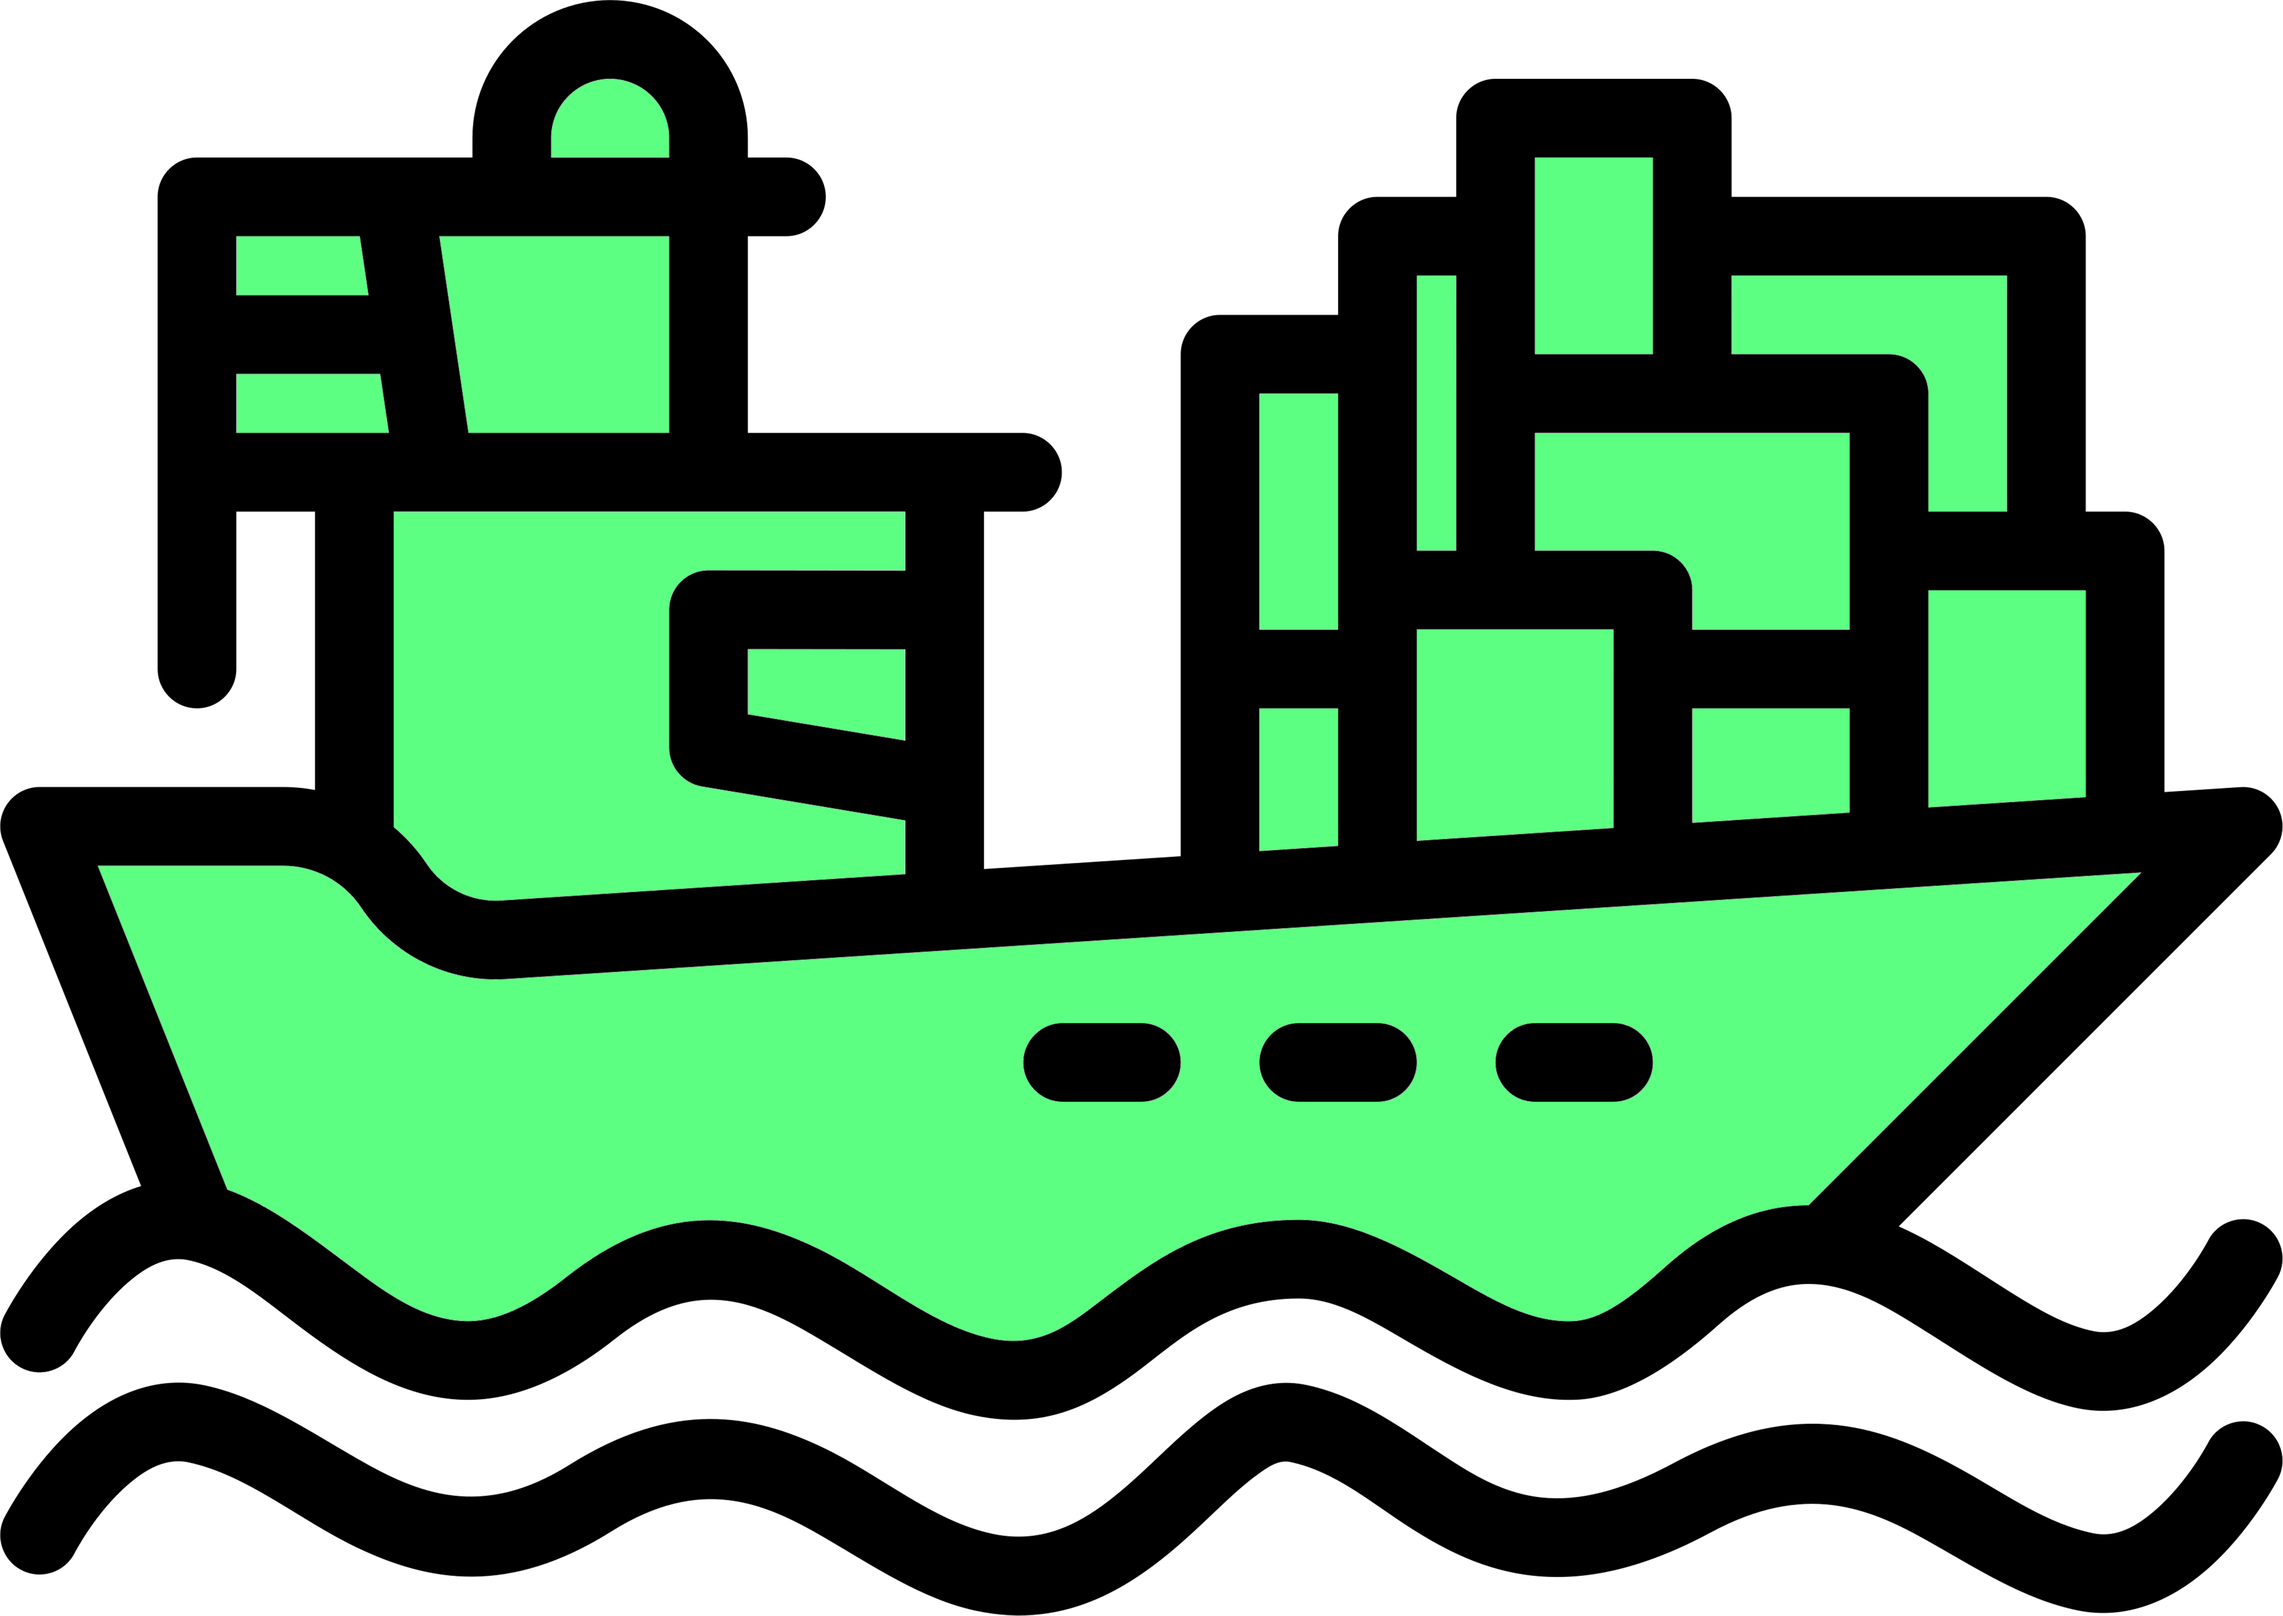
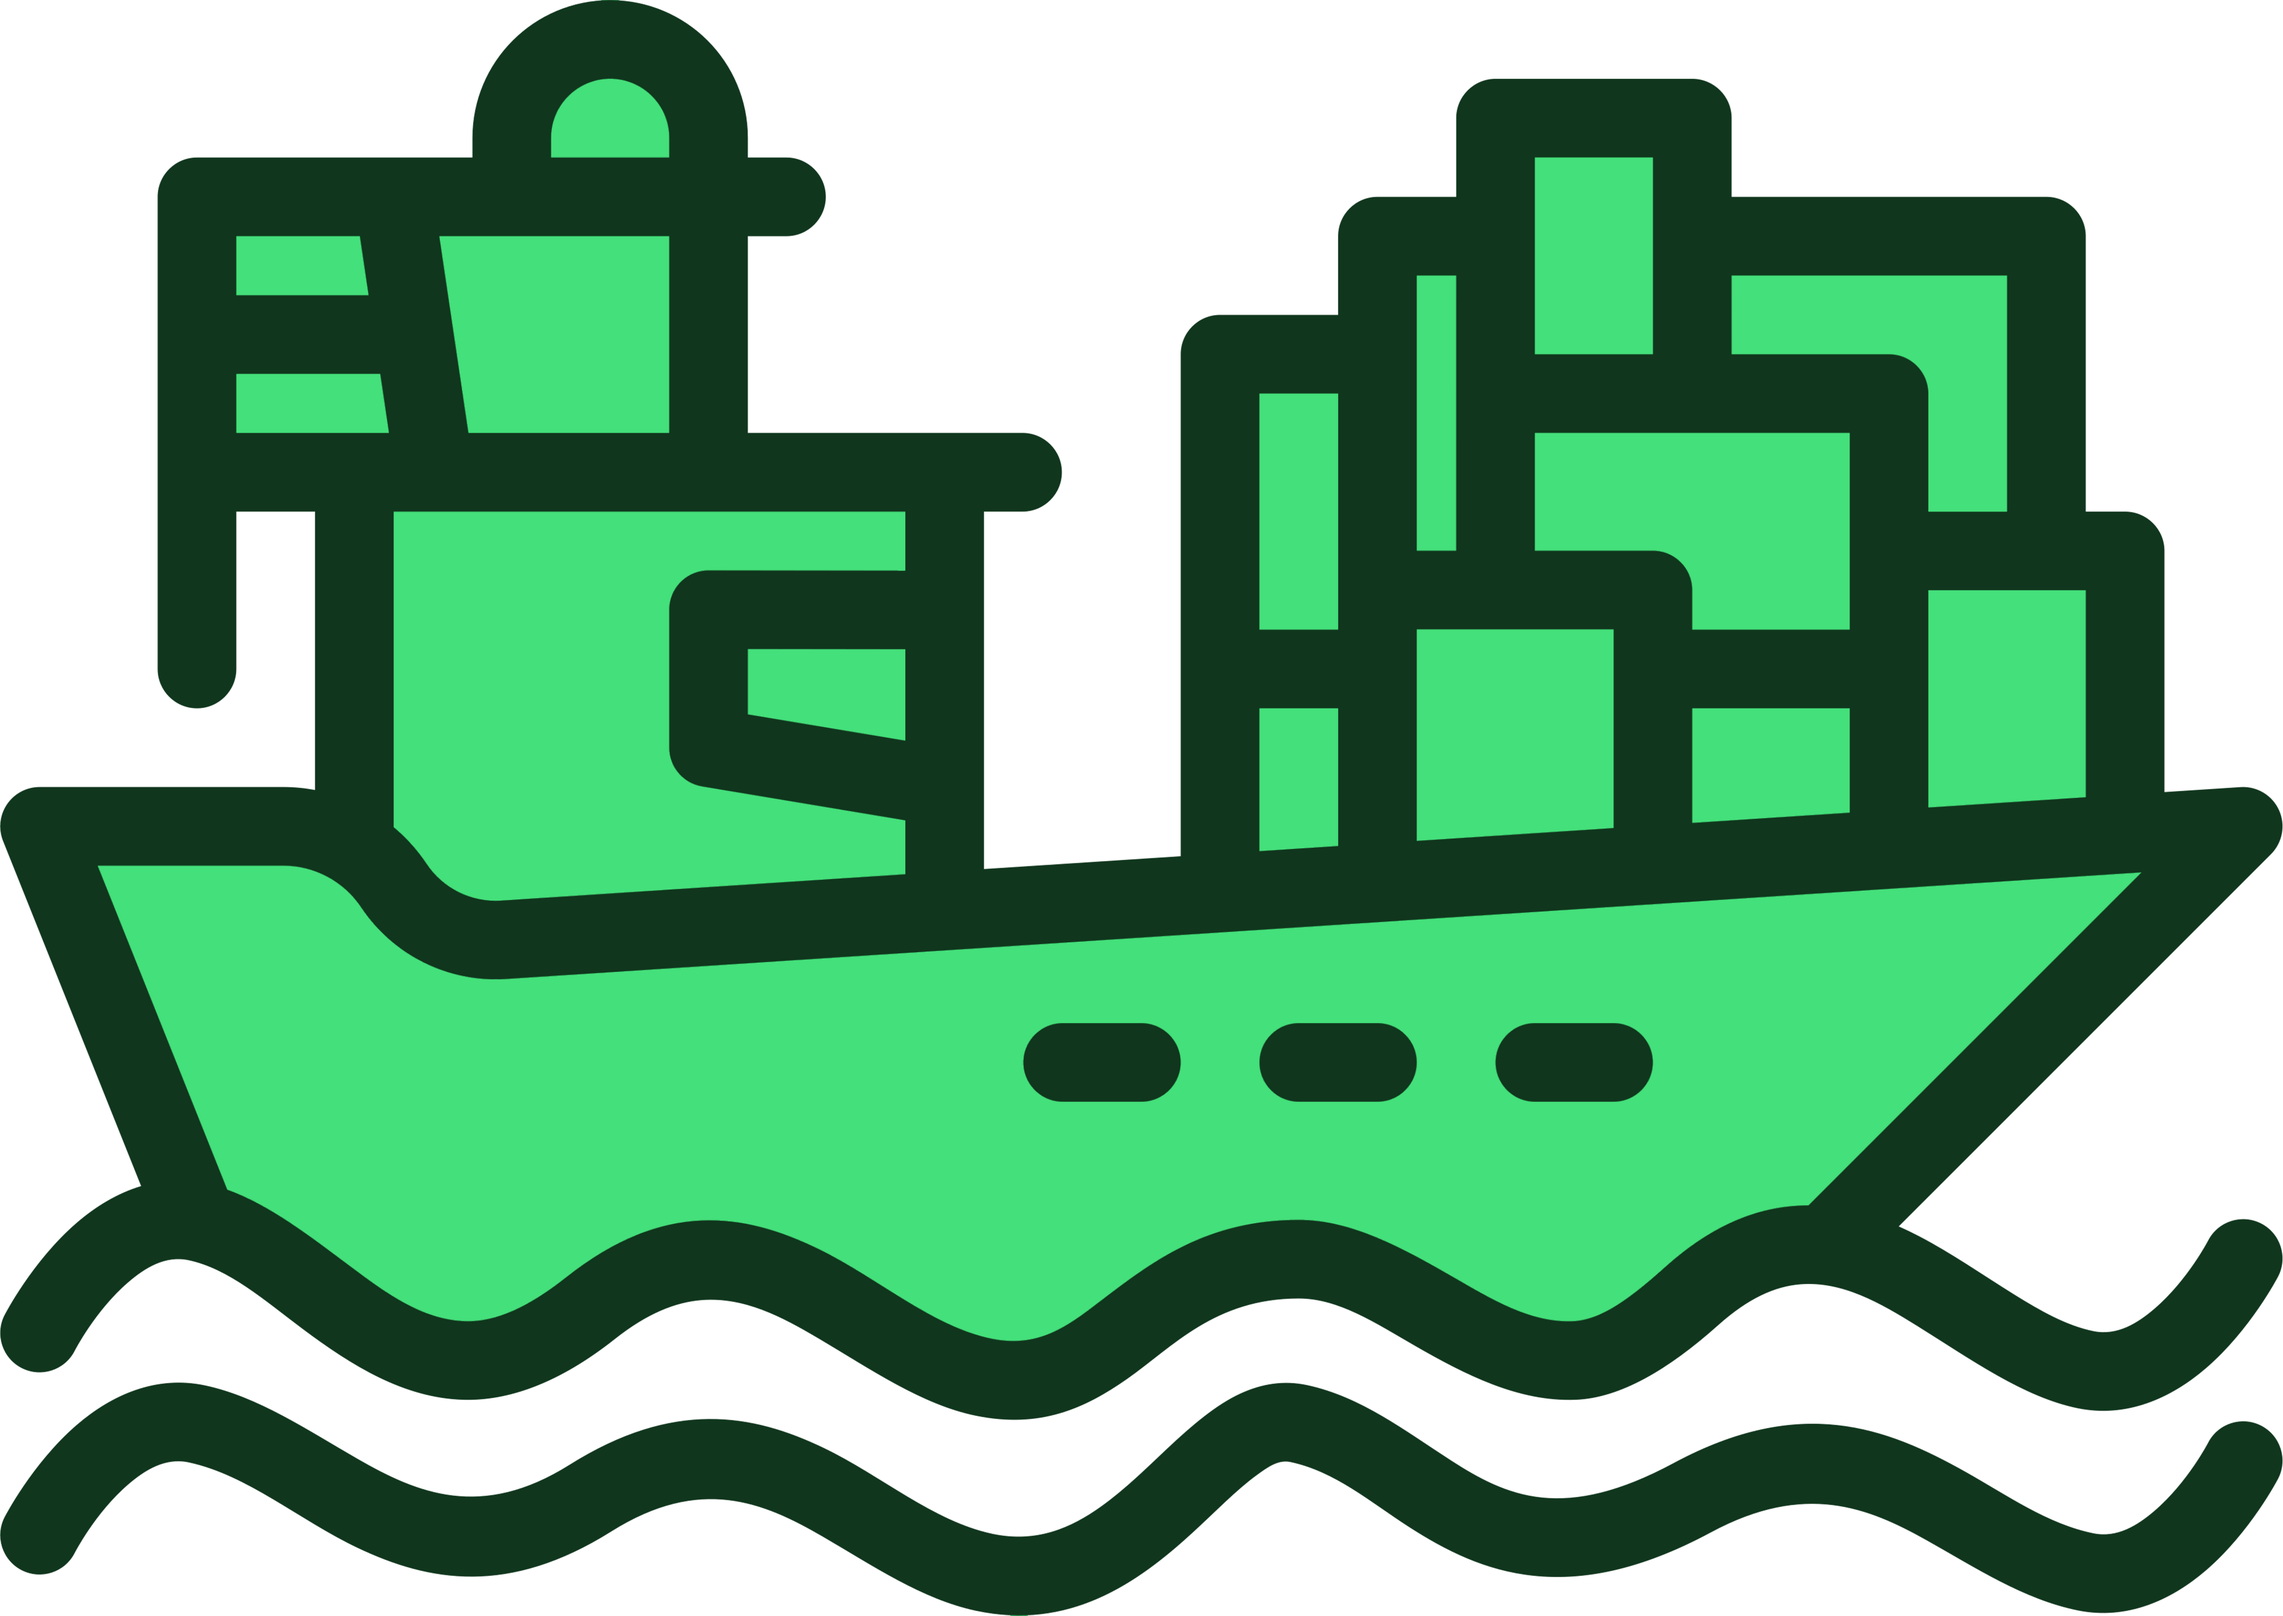
Fixed the rest of the adjustments in the document

diff --git a/Content/custom-styles.css b/Content/custom-styles.css
@@ -306,8 +306,13 @@
         object-fit:contain;
         object-position: bottom center;
         margin-top:var(--space-3);
-        filter: hue-rotate(52deg);
     }
+
+.mbl-details .lfd-godate {
+    background:white!important;
+    border-radius: 8px;
+    padding:8px 12px;
+}
 
 .hbl-master-list {
     background:var(--clr-azure-95);
@@ -624,6 +629,7 @@ line-height: initial;
         height:20px;
         text-align:center;
         display:flex; justify-content:center;
+        aspect-ratio: 1!important;
     }
 
     .ipi-status .pending .status-marker {
@@ -897,8 +903,8 @@ line-height: initial;
          }
 
         .hbl-item-details-modal .main-content {
-            grid-template-columns: 1fr!important;
-            grid-template-rows: 1fr auto;
+            display:flex;
+            flex-direction:column;
         }
         .hbl-master-list .hbl-list-grid .hbl{
             min-width:80%;
@@ -914,6 +920,20 @@ line-height: initial;
             flex-wrap:wrap!important;
             gap:12px;
         }
+
+        .milestone-v2 {
+            font-size:190%;
+        }
+
+        .milestone-v2 .bi.bi-chevron-right {
+            display:none;
+        }
+
+        .milestone-v2 .col-auto {
+            padding-left:12%;
+            margin-top:4px; margin-bottom:4px;
+        }
+
     }
 
     @media screen and (max-width:576px){

diff --git a/availability.html b/availability.html
@@ -229,7 +229,7 @@
 
                 </div>
             </div>
-            <div class="col-lg-auto d-flex flex-column font-family-archivo gap-2 justify-content-evenly ml-auto">
+            <div class="col-lg-auto d-flex flex-column font-family-archivo gap-2 justify-content-evenly ml-auto lfd-godate">
                 <div class="d-flex align-items-center lh-1 text-navy-500 text-left">
                     <div>
                         <span class="text-lg">LAST FREE DATE</span><br>
@@ -251,9 +251,6 @@
     <div class="container-fluid">
         <div class="row">
             <div class="col-12 p-5 d-flex flex-column gap-2 bg-navy-100 rounded-4">
-                <div>
-                    <h2 class="font-family-dm-serif text-xl text-navy-800 text-not-uppercase">HBL List</h2> 
-                </div>
                 <div class="hbl-list-grid font-family-sora lh-1 text-uppercase text-xs text-navy-450">
                         <div class="d-flex justify-content-start text-center hide-header">SEQ No.</div>
                         <div class="d-flex justify-content-start hide-header">HBL</div>
